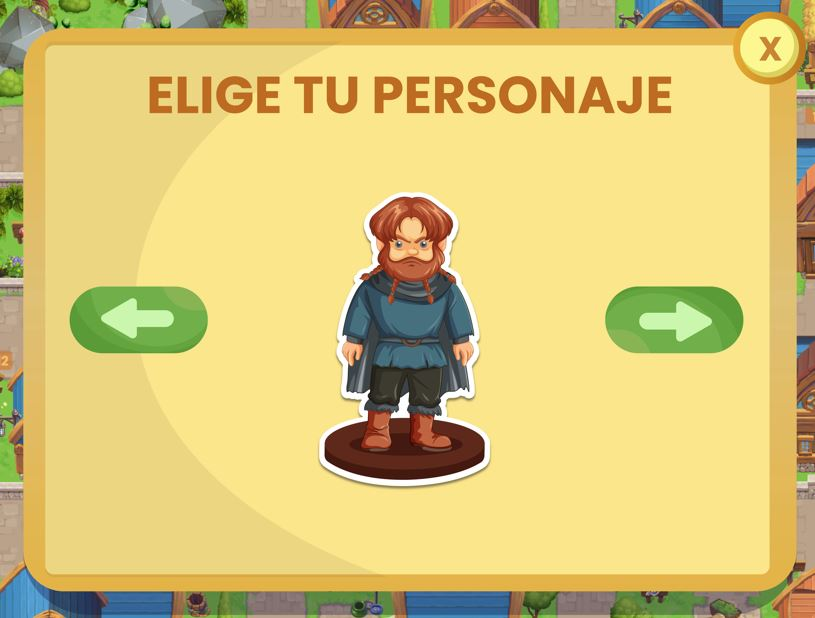
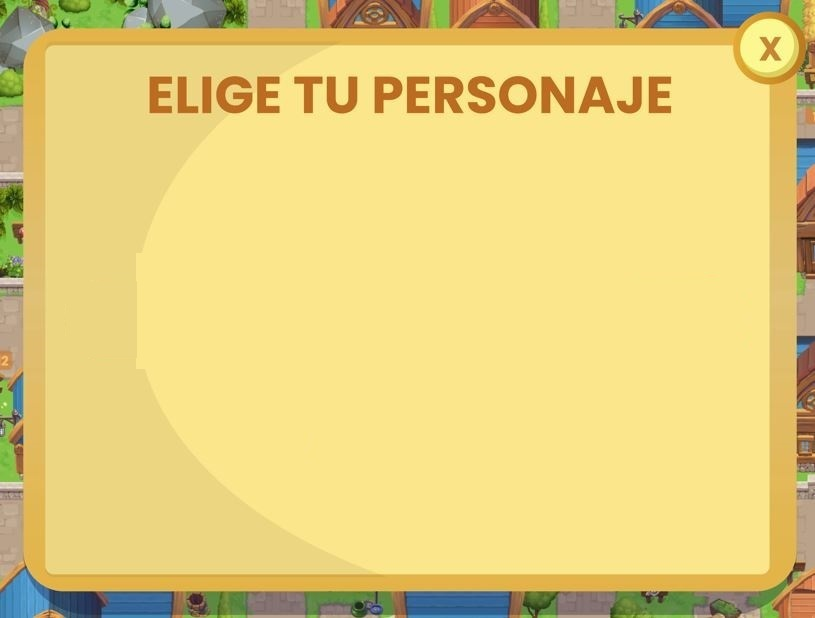
imp de menú perosnajes fase 2 -carga de fondos -carga de botones -carga de assets imgs

Changed region(s): [[0.3681, 0.3074, 0.6135, 0.7994], [0.7362, 0.4612, 0.9202, 0.5841], [0.0613, 0.4612, 0.2761, 0.5841]]

diff --git a/src/scenes/Preloader.js b/src/scenes/Preloader.js
@@ -1,6 +1,7 @@
 import { Scene } from "phaser";
-import assets from "../config/assets.json";
-import txt from "../config/txtStyles.json";
+import fondos from "../config/fondos.json";
+import botones from "../config/botones.json";
+
 
 export default class Preloader extends Scene {
   constructor() {
@@ -10,16 +11,21 @@ export default class Preloader extends Scene {
   init() {
     this.center = this.registry.get("center");
     this.personajes = this.registry.get("personajes");
-    console.log("this.personajes", this.personajes);
+    this.estilosTexto = this.registry.get("estilosTexto");
     
   }
 
   preload() {
-    assets.forEach((item) =>
-      this.load.image(item.id, `assets/${item.id}.${item.ext}`)
+    fondos.forEach((item) =>
+      this.load.image(item.id, `assets/fondos/${item.archivo}.${item.ext}`)
     );
+
+    botones.forEach((item) =>
+        this.load.image(item.id, `assets/botones/${item.archivo}.${item.ext}`)
+      );
+
     this.personajes.forEach((item) =>
-      this.load.image(item.id, `assets/${item.id}.${item.ext}`)
+      this.load.image(item.id, `assets/personajes/${item.archivo}.${item.ext}`)
     );
   }
 
@@ -27,12 +33,13 @@ export default class Preloader extends Scene {
     const splash = this.add
       .image(this.center.x, this.center.y, "splash")
       .setOrigin(0.5);
+    
     this.add
       .text(
         this.center.x,
         splash.y + this.center.y + 20,
         "Cargando datos. Por favor espere",
-        txt.blanco
+        this.estilosTexto.blanco
       )
       .setOrigin(0.5);
 

diff --git a/src/scenes/MenuPersonajes.js b/src/scenes/MenuPersonajes.js
@@ -8,11 +8,18 @@ export default class MenuPersonajes extends Scene {
 
     init () {
         this.center = this.registry.get("center");
-        this.personajes = this.registry.get("personajes");
+        this.personajes = this.registry.get("personajes");        
         
     }
 
     create () {
+        this.add.image(this.center.x, this.center.y, "bgPersonajes").setOrigin(0.5);
+        this.add.image(this.center.x - 290, this.center.y, "btnFlechaIzquierdaVerde").setOrigin(0.5).setInteractive();
+        this.add.image(this.center.x + 290, this.center.y, "btnFlechaDerechaVerde").setOrigin(0.5).setInteractive();
+        
+    }
+
+    update () {
         this.renderPersonajes(0);
     }
 

diff --git a/src/scenes/Boot.js b/src/scenes/Boot.js
@@ -1,5 +1,6 @@
 import { Scene } from "phaser";
-import personajes from "../config/personajes.json"
+import personajes from "../config/personajes.json";
+import estilosTexto from "../config/estilosTexto.json"
 
 export default class Boot extends Scene {
     constructor() {
@@ -12,9 +13,8 @@ export default class Boot extends Scene {
             x: this.scale.width / 2,
             y: this.scale.height / 2
         });        
-        
-        this.registry.set("personajes", personajes);        
-        
+        this.registry.set("personajes", personajes);    
+        this.registry.set("estilosTexto", estilosTexto);        
     }
 
     preload () {

diff --git a/src/scenes/MenuVersus.js b/src/scenes/MenuVersus.js
@@ -12,7 +12,7 @@ export default class MenuVersus extends Scene {
 
 
     create () {        
-        this.menu1 = this.add.image(this.scale.width / 2, this.scale.height / 2 , "menu1")
+        this.menu1 = this.add.image(this.scale.width / 2, this.scale.height / 2 , "bgVersus")
         .setOrigin(0.5)
         .setInteractive();
 
